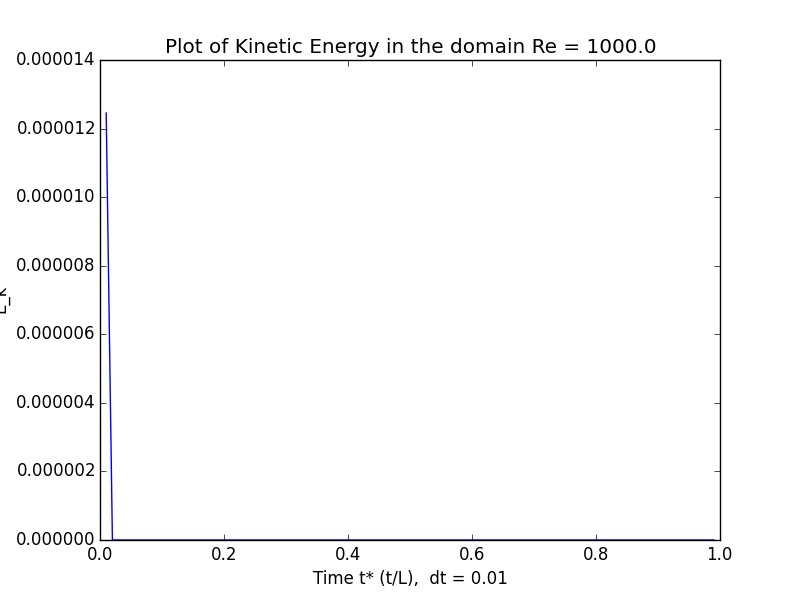
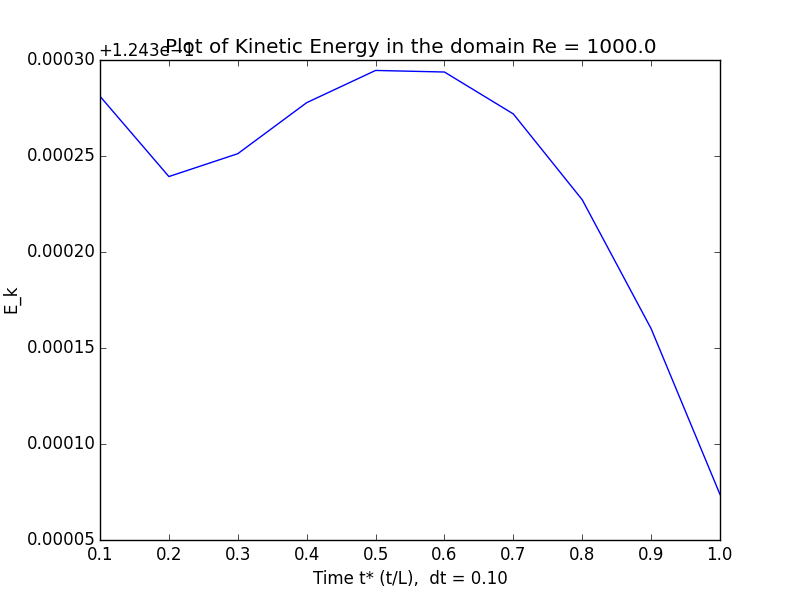
fix variational form

diff --git a/TaylorGreen/3D/ipcs3D.py b/TaylorGreen/3D/ipcs3D.py
@@ -90,7 +90,14 @@ def ipcs(N, dt, T, L, rho, mu):
     bcp = []
 
     f =Constant((0,0,0)) #BODYFORCE
-
+    
+    nos = DomainBoundary()
+    
+    boundaries = FacetFunction("size_t", mesh)
+    boundaries.set_all(0)
+    nos.mark(boundaries, 1)
+    ds = Measure("ds", subdomain_data=boundaries)
+    
     #plot(boundaries, interactive=True)
 
     def sigma (u_o, p_o):
@@ -104,7 +111,7 @@ def ipcs(N, dt, T, L, rho, mu):
     #STEP 1: TENTATIVE VELOCITY
     F = inner(rho*1./dt*(u - u0), v)*dx + dot(rho*dot(u0, nabla_grad(u0)), v)*dx \
     + inner( sigma(0.5*(u + u0), p0), eps(v) )*dx \
-    - mu*dot(dot(grad(0.5*(u + u0)), n), v)*ds(3) + dot(p0*n ,v)*ds(3)- inner(f,v)*dx
+    - mu*dot(dot(grad(0.5*(u + u0)), n), v)*ds(1) + dot(p0*n ,v)*ds(1)- inner(f,v)*dx
 
     a1 = lhs(F)
     L1 = rhs(F)
@@ -168,7 +175,7 @@ def ipcs(N, dt, T, L, rho, mu):
 
 set_log_active(False)
 N = [10]
-rho = 1000.; mu = 1.; T= 10.; dt = 0.01; L = 1.; nu = mu/rho
+rho = 1000.; mu = 1.; T= 1.; dt = 0.1; L = 1.; nu = mu/rho
 Re = L*1./nu
 h = []; E = []; E_k = []; t_star = []; time_calc = []
 for n in N:

diff --git a/TaylorGreen/2D/ipcs2D.py b/TaylorGreen/2D/ipcs2D.py
@@ -60,6 +60,12 @@ def ipcs(N, dt, T, rho, mu):
     T = T
 
     f =Constant((0,0)) #BODYFORCE
+    
+    nos = DomainBoundary()    
+    boundaries = FacetFunction("size_t", mesh)
+    boundaries.set_all(0)
+    nos.mark(boundaries, 1)
+    ds = Measure("ds", subdomain_data=boundaries)
 
     #plot(boundaries, interactive=True)
 
